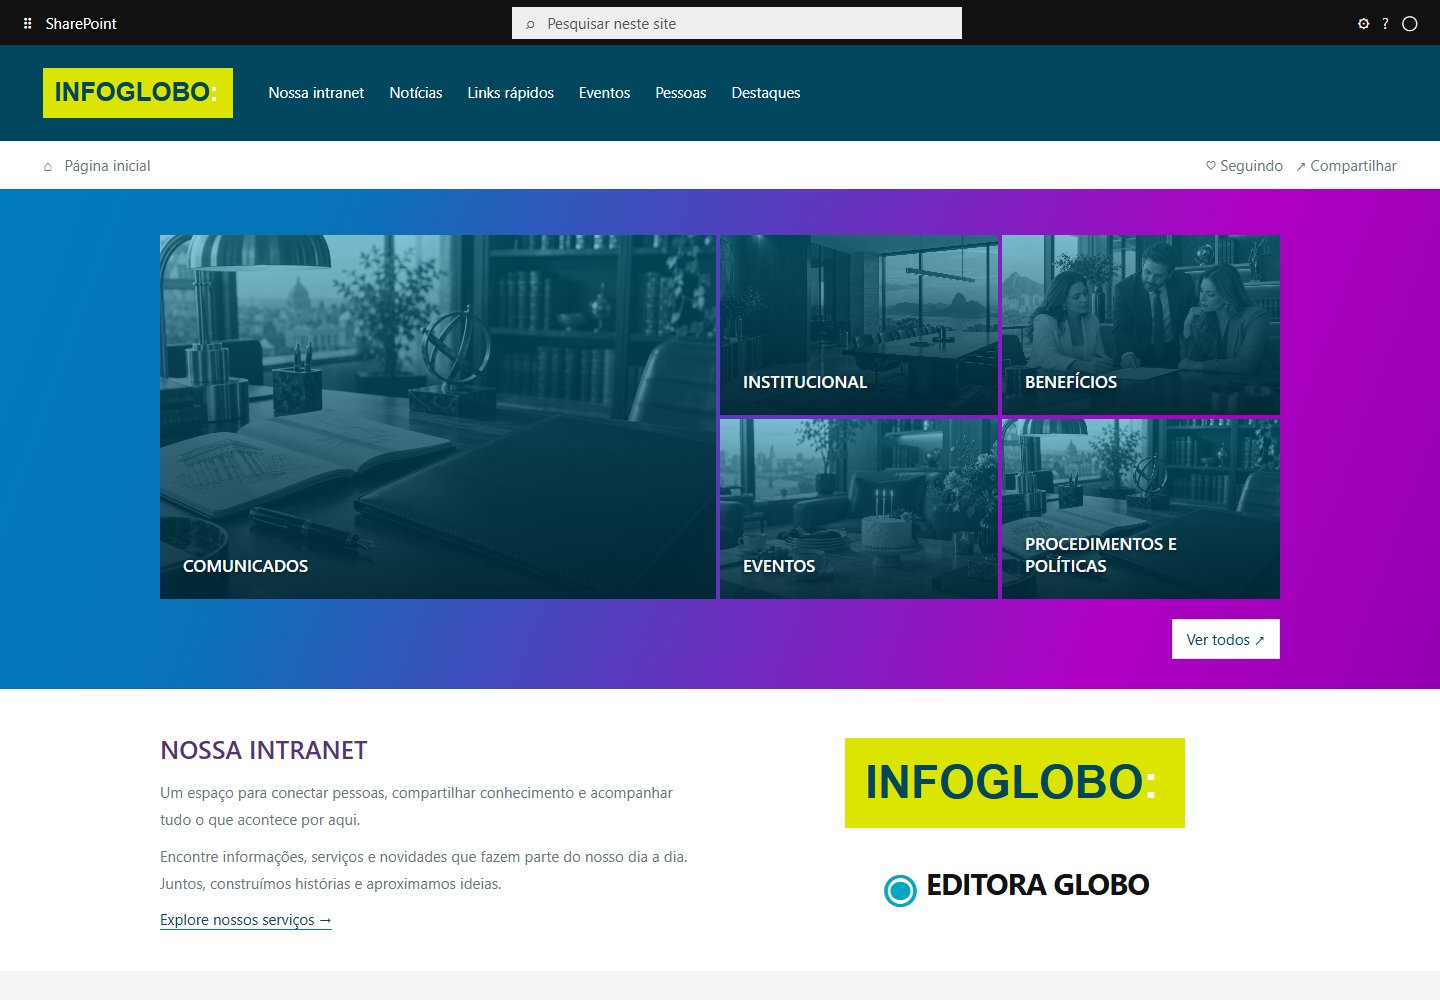
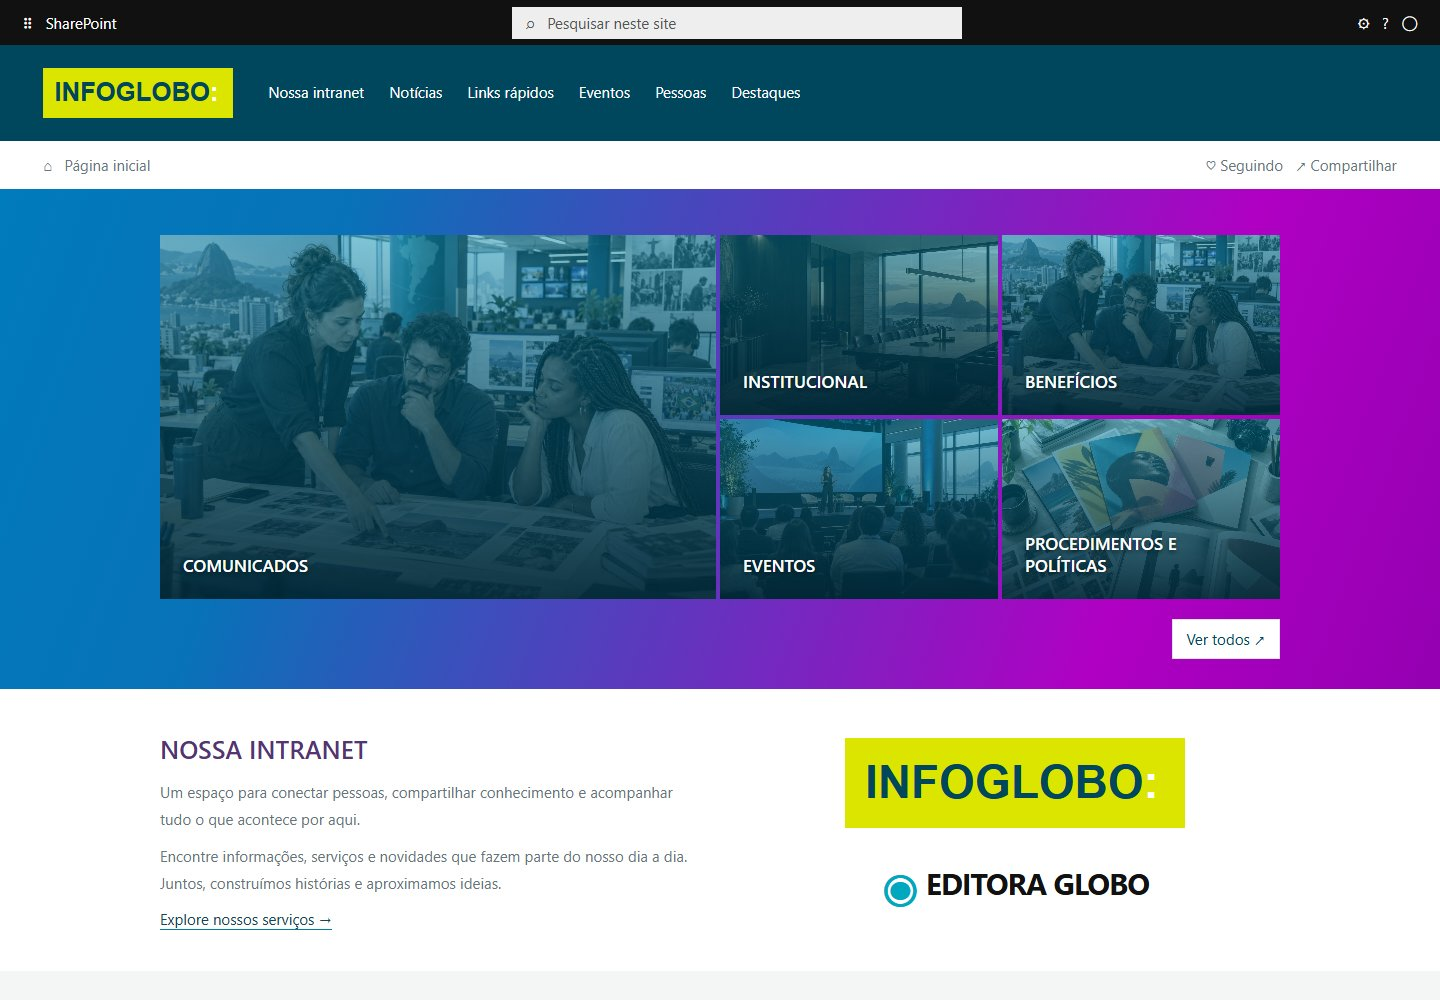
Refresh Infoglobo hero and news with editorial AI imagery

Changed region(s): [[0.0938, 0.217, 0.9062, 0.589]]

diff --git a/infoglobo/index.html b/infoglobo/index.html
@@ -1,6 +1,6 @@
-<!doctype html><html lang="pt-BR"><head><meta charset="utf-8"><meta name="viewport" content="width=device-width,initial-scale=1"><title>Infoglobo · Nossa Intranet</title><link rel="stylesheet" href="style.css"></head><body><a class="skip" href="#conteudo">Pular para conteúdo</a><div class="suite"><span>⠿ &nbsp; SharePoint</span><button data-preview="Pesquisar neste site" class="search">⌕ &nbsp; Pesquisar neste site</button><span aria-hidden="true">⚙ &nbsp; ? &nbsp; ◯</span></div><header><a href="#conteudo"><img src="assets/logo.svg" alt="Infoglobo" class="logo"></a><nav aria-label="Principal"><a href="#sobre">Nossa intranet</a><a href="#noticias">Notícias</a><a href="#links">Links rápidos</a><a href="#eventos">Eventos</a><a href="#pessoas">Pessoas</a><a href="#destaques">Destaques</a></nav></header><div class="commands"><span>⌂ &nbsp; Página inicial</span><span>♡ Seguindo &nbsp; ↗ Compartilhar</span></div><main id="conteudo"><section class="hero-band"><div class="container"><div class="mosaic"><button class="tile main-tile" data-preview="Comunicados"><img src="assets/documents.webp" alt="Materiais de trabalho"><span>COMUNICADOS</span></button><button class="tile" data-preview="Institucional"><img src="assets/office.webp" alt="Escritório"><span>INSTITUCIONAL</span></button><button class="tile" data-preview="Benefícios"><img src="assets/team.webp" alt="Equipe reunida"><span>BENEFÍCIOS</span></button><a class="tile" href="#eventos"><img src="assets/celebration.webp" alt="Encontro no escritório"><span>EVENTOS</span></a><button class="tile" data-preview="Procedimentos e políticas"><img src="assets/documents.webp" alt="Documentos"><span>PROCEDIMENTOS E POLÍTICAS</span></button></div><button class="small-button" data-preview="Todos os comunicados">Ver todos ↗</button></div></section>
+<!doctype html><html lang="pt-BR"><head><meta charset="utf-8"><meta name="viewport" content="width=device-width,initial-scale=1"><title>Infoglobo · Nossa Intranet</title><link rel="stylesheet" href="style.css"></head><body><a class="skip" href="#conteudo">Pular para conteúdo</a><div class="suite"><span>⠿ &nbsp; SharePoint</span><button data-preview="Pesquisar neste site" class="search">⌕ &nbsp; Pesquisar neste site</button><span aria-hidden="true">⚙ &nbsp; ? &nbsp; ◯</span></div><header><a href="#conteudo"><img src="assets/logo.svg" alt="Infoglobo" class="logo"></a><nav aria-label="Principal"><a href="#sobre">Nossa intranet</a><a href="#noticias">Notícias</a><a href="#links">Links rápidos</a><a href="#eventos">Eventos</a><a href="#pessoas">Pessoas</a><a href="#destaques">Destaques</a></nav></header><div class="commands"><span>⌂ &nbsp; Página inicial</span><span>♡ Seguindo &nbsp; ↗ Compartilhar</span></div><main id="conteudo"><section class="hero-band"><div class="container"><div class="mosaic"><button class="tile main-tile" data-preview="Comunicados"><img src="assets/newsroom.webp" alt="Jornalistas colaborando na produção de conteúdo"><span>COMUNICADOS</span></button><button class="tile" data-preview="Institucional"><img src="assets/office.webp" alt="Escritório"><span>INSTITUCIONAL</span></button><button class="tile" data-preview="Benefícios"><img src="assets/newsroom.webp" alt="Equipe reunida"><span>BENEFÍCIOS</span></button><a class="tile" href="#eventos"><img src="assets/conference.webp" alt="Encontro de conhecimento em um auditório"><span>EVENTOS</span></a><button class="tile" data-preview="Procedimentos e políticas"><img src="assets/publications.webp" alt="Publicações e materiais editoriais"><span>PROCEDIMENTOS E POLÍTICAS</span></button></div><button class="small-button" data-preview="Todos os comunicados">Ver todos ↗</button></div></section>
 <section id="sobre" class="container intro"><div><h1>NOSSA INTRANET</h1><p>Um espaço para conectar pessoas, compartilhar conhecimento e acompanhar tudo o que acontece por aqui.</p><p>Encontre informações, serviços e novidades que fazem parte do nosso dia a dia. Juntos, construímos histórias e aproximamos ideias.</p><a href="#links" class="text-link">Explore nossos serviços →</a></div><div class="brands"><img src="assets/logo.svg" alt="Infoglobo"><div class="editora"><span aria-hidden="true">◉</span> EDITORA GLOBO</div></div></section>
-<section id="noticias" class="news-section"><div class="container"><div class="section-head"><h2>NOTÍCIAS</h2><button data-preview="Todas as notícias">Ver todas ↗</button></div><div class="news-grid"><button class="lead-story" data-preview="Histórias que ganham novas páginas"><div class="book-art" aria-hidden="true"><span>IDEIAS<br>QUE<br>MOVEM</span><span>NOVOS<br>OLHARES</span><span>HISTÓRIAS<br>QUE<br>CONECTAM</span><span>O MUNDO<br>EM<br>PAUTA</span></div><h3>Histórias que ganham novas páginas</h3><p>Conheça iniciativas que conectam criatividade, informação e novas perspectivas.</p><small>Comunicação interna · Conteúdo ilustrativo</small></button><div class="news-list"><button data-preview="Juntos, vamos além"><img src="assets/team.webp" alt="" loading="lazy"><div><h3>Juntos, vamos além</h3><p>Pessoas que compartilham experiências.</p><small>Leia mais →</small></div></button><button data-preview="Conhecimento em movimento"><img src="assets/documents.webp" alt="" loading="lazy"><div><h3>Conhecimento em movimento</h3><p>Referências e ideias para o dia a dia.</p><small>Leia mais →</small></div></button><button data-preview="Cada conquista merece ser celebrada"><img src="assets/celebration.webp" alt="" loading="lazy"><div><h3>Cada conquista merece ser celebrada</h3><p>Conheça as novidades da nossa equipe.</p><small>Leia mais →</small></div></button></div></div></div></section>
+<section id="noticias" class="news-section"><div class="container"><div class="section-head"><h2>NOTÍCIAS</h2><button data-preview="Todas as notícias">Ver todas ↗</button></div><div class="news-grid"><button class="lead-story" data-preview="Histórias que ganham novas páginas"><img class="lead-photo" src="assets/publications.webp" alt="Revistas e publicações com capas coloridas sobre uma mesa editorial" loading="lazy"><h3>Histórias que ganham novas páginas</h3><p>Conheça iniciativas que conectam criatividade, informação e novas perspectivas.</p><small>Comunicação interna · Conteúdo ilustrativo</small></button><div class="news-list"><button data-preview="Juntos, vamos além"><img src="assets/newsroom.webp" alt="" loading="lazy"><div><h3>Juntos, vamos além</h3><p>Pessoas que compartilham experiências.</p><small>Leia mais →</small></div></button><button data-preview="Conhecimento em movimento"><img src="assets/publications.webp" alt="" loading="lazy"><div><h3>Conhecimento em movimento</h3><p>Referências e ideias para o dia a dia.</p><small>Leia mais →</small></div></button><button data-preview="Cada conquista merece ser celebrada"><img src="assets/conference.webp" alt="" loading="lazy"><div><h3>Cada conquista merece ser celebrada</h3><p>Conheça as novidades da nossa equipe.</p><small>Leia mais →</small></div></button></div></div></div></section>
 <section id="links" class="links-band"><div class="container"><h2>Links Rápidos</h2><div class="quick-links"><button data-preview="Recursos humanos">Recursos humanos <span>↗</span></button><button data-preview="Nossa empresa">Nossa empresa <span>↗</span></button><button data-preview="Serviços">Serviços <span>↗</span></button><button data-preview="Saúde e bem-estar">Saúde e bem-estar <span>↗</span></button><button data-preview="Financeiro">Financeiro <span>↗</span></button><button data-preview="Educação, cultura e lazer">Educação, cultura e lazer <span>↗</span></button></div></div></section>
 <section id="eventos" class="container events-section"><div class="section-head"><h2>EVENTOS</h2><button data-preview="Calendário de eventos">Ver todos ↗</button></div><div class="events"><button data-preview="Calendário corporativo" class="calendar-feature"><span class="calendar-icon">▦</span><h3>Esteja presente</h3><p>Encontros para aprender, compartilhar e conectar.</p></button><button data-preview="Conexão de equipes"><time><span>OUT</span>01</time><h3>Conexão de equipes</h3><p>09h30 · Auditório</p><small>Conheça o evento →</small></button><button data-preview="Ideias em pauta"><time><span>OUT</span>08</time><h3>Ideias em pauta</h3><p>14h00 · Online</p><small>Conheça o evento →</small></button><button data-preview="Encontro de boas-vindas"><time><span>OUT</span>15</time><h3>Encontro de boas-vindas</h3><p>10h00 · Espaço de convivência</p><small>Conheça o evento →</small></button></div></section>
 <section id="pessoas" class="birthday-band"><div class="container"><h2>Aniversariantes do Mês</h2><div class="people"><article class="person"><span>02/10</span><img src="assets/portrait-am.webp" alt="Retrato fictício de Ana Martins, gerado por IA" loading="lazy"><h3>Ana Martins</h3></article><article class="person"><span>06/10</span><img src="assets/portrait-rc.webp" alt="Retrato fictício de Rafael Costa, gerado por IA" loading="lazy"><h3>Rafael Costa</h3></article><article class="person"><span>10/10</span><img src="assets/portrait-bl.webp" alt="Retrato fictício de Beatriz Lima, gerado por IA" loading="lazy"><h3>Beatriz Lima</h3></article><article class="person"><span>14/10</span><img src="assets/portrait-ps.webp" alt="Retrato fictício de Pedro Santos, gerado por IA" loading="lazy"><h3>Pedro Santos</h3></article><article class="person"><span>18/10</span><img src="assets/portrait-cf.webp" alt="Retrato fictício de Clara Ferreira, gerado por IA" loading="lazy"><h3>Clara Ferreira</h3></article></div></div></section><section class="tenure container"><h2>Tempo de Casa</h2><div class="people"><article class="person"><span>2 anos de casa</span><img src="assets/portrait-am.webp" alt="Retrato fictício de Ana Martins, gerado por IA" loading="lazy"><h3>Ana Martins</h3><p>Comunicação e conteúdo</p></article><article class="person"><span>3 anos de casa</span><img src="assets/portrait-rc.webp" alt="Retrato fictício de Rafael Costa, gerado por IA" loading="lazy"><h3>Rafael Costa</h3><p>Comunicação e conteúdo</p></article><article class="person"><span>4 anos de casa</span><img src="assets/portrait-bl.webp" alt="Retrato fictício de Beatriz Lima, gerado por IA" loading="lazy"><h3>Beatriz Lima</h3><p>Comunicação e conteúdo</p></article><article class="person"><span>5 anos de casa</span><img src="assets/portrait-ps.webp" alt="Retrato fictício de Pedro Santos, gerado por IA" loading="lazy"><h3>Pedro Santos</h3><p>Comunicação e conteúdo</p></article><article class="person"><span>6 anos de casa</span><img src="assets/portrait-cf.webp" alt="Retrato fictício de Clara Ferreira, gerado por IA" loading="lazy"><h3>Clara Ferreira</h3><p>Comunicação e conteúdo</p></article></div><button class="small-button dark" data-preview="Diretório de colaboradores">Ver todos ↗</button></section>

diff --git a/infoglobo/style.css b/infoglobo/style.css
@@ -5,3 +5,5 @@
 /* Full-width section backgrounds with centered content. */
 main{max-width:none;width:100%;}.container{width:min(1120px,88%);margin-inline:auto;}
 @media(max-width:1000px){.container{width:92%;}}
+
+.lead-photo{display:block;width:100%;height:270px;object-fit:cover}.news-list img{filter:none}.tile img{filter:saturate(.6)}@media(max-width:650px){.lead-photo{height:210px}}
